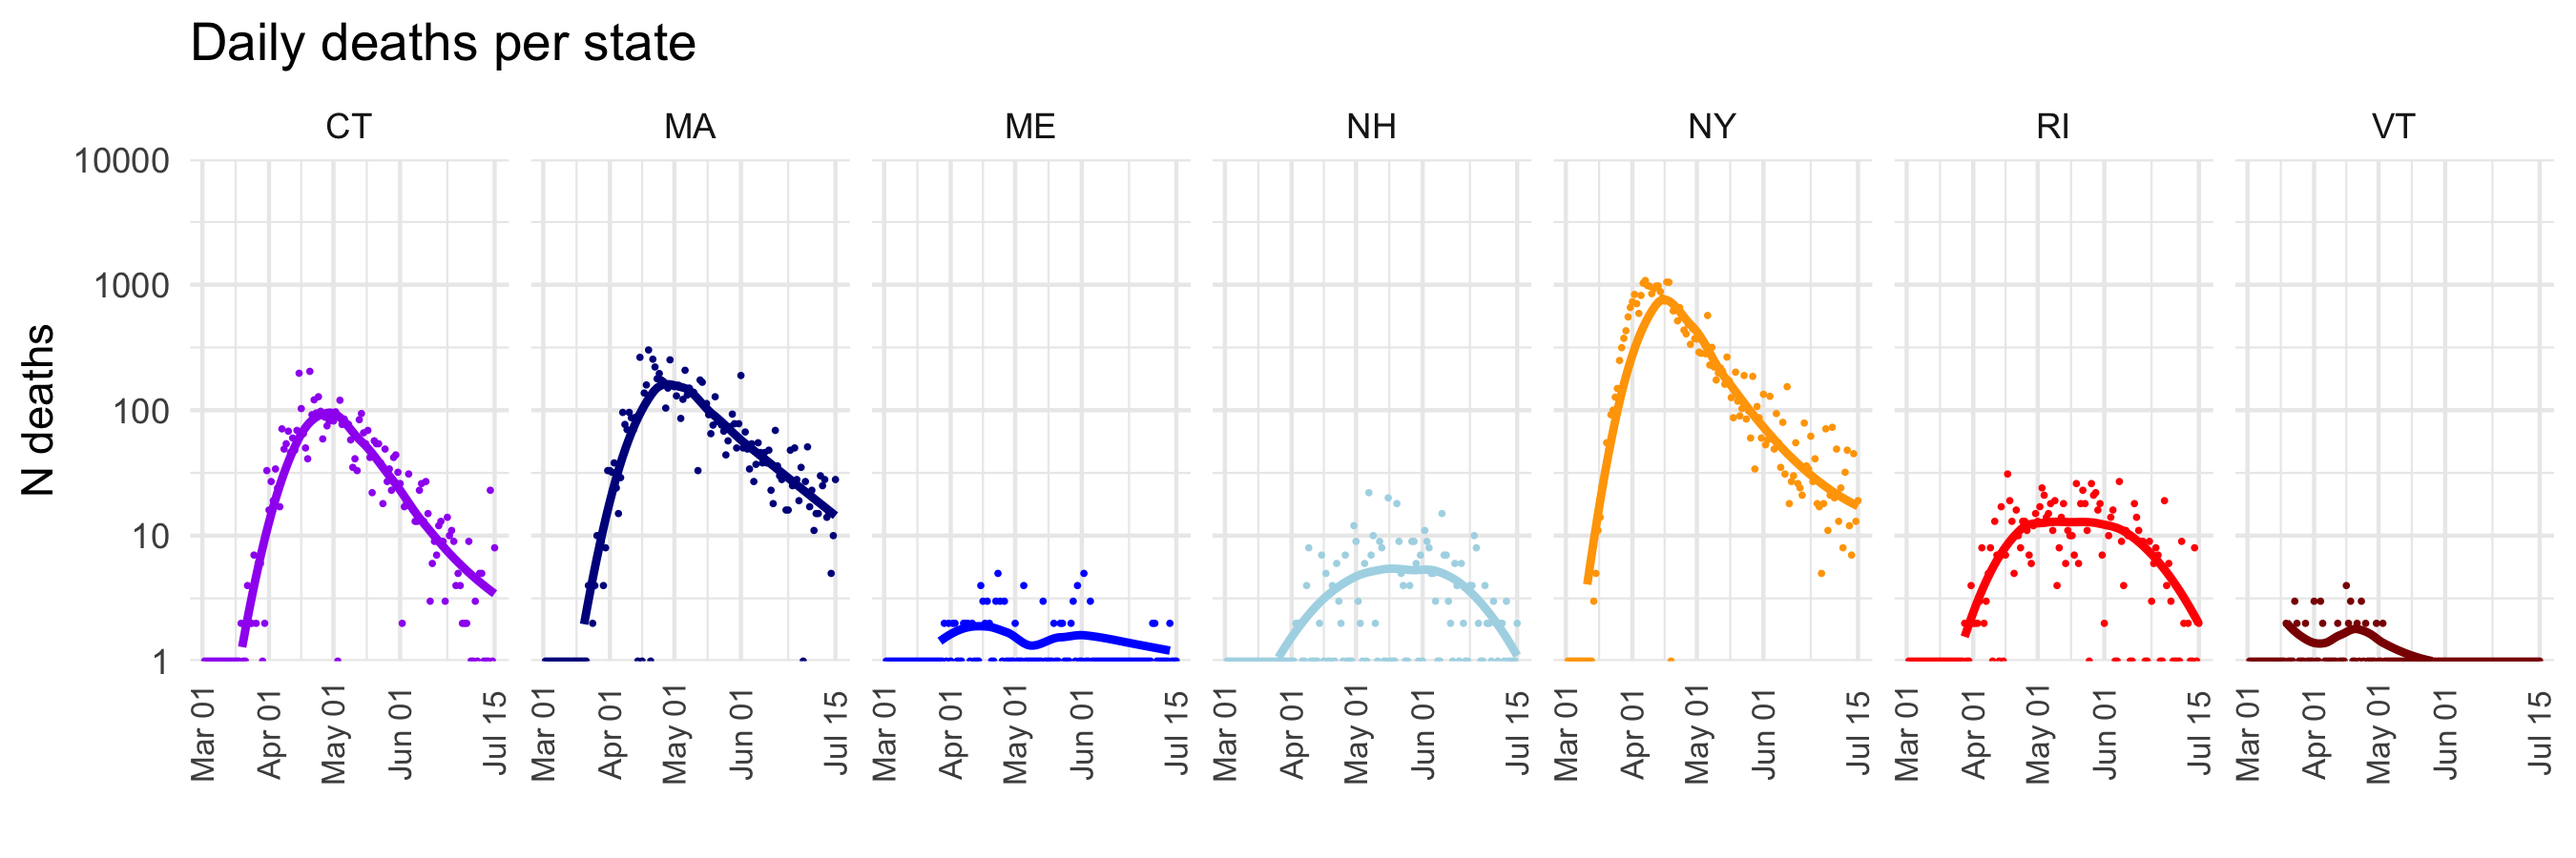
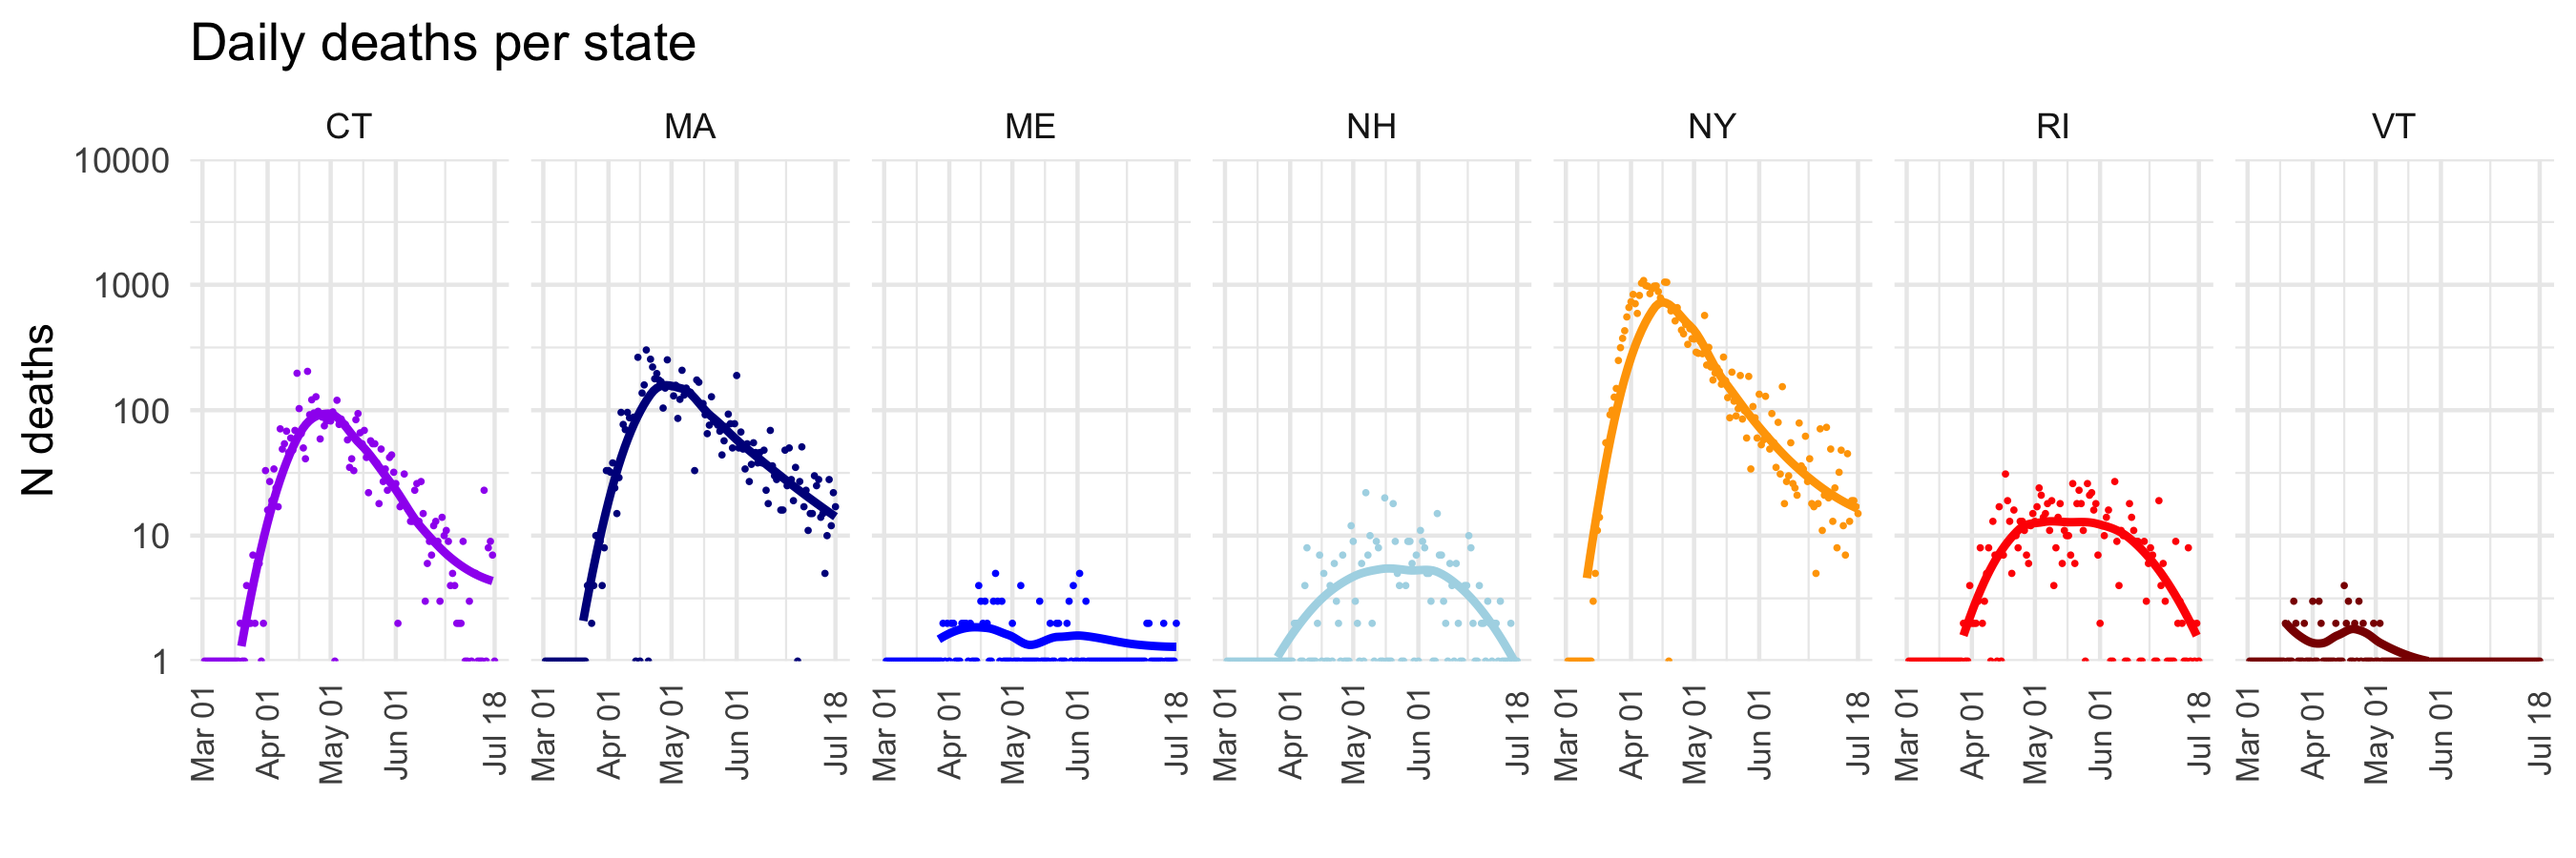
Package update on 2020-07-19 21:59:57

diff --git a/README.md b/README.md
@@ -12,7 +12,7 @@ around a focal point, in this case Worcester, MA, the home of Clark
 University. It also tries to show county-level detail available in state
 datasets.
 
-**Last update**: 2020-07-16 12:11:35
+**Last update**: 2020-07-19 21:59:19
 <img src="vignettes/figures/caserate_map.png" width="95%" style="display: block; margin: auto;" /><img src="vignettes/figures/case_map.png" width="95%" style="display: block; margin: auto;" /><img src="vignettes/figures/statecases_daily.png" width="95%" style="display: block; margin: auto;" /><img src="vignettes/figures/statecases_cumulative.png" width="95%" style="display: block; margin: auto;" /><img src="vignettes/figures/statedeaths_daily.png" width="95%" style="display: block; margin: auto;" /><img src="vignettes/figures/statedeaths_cumulative.png" width="95%" style="display: block; margin: auto;" />
 
 ## Notes
